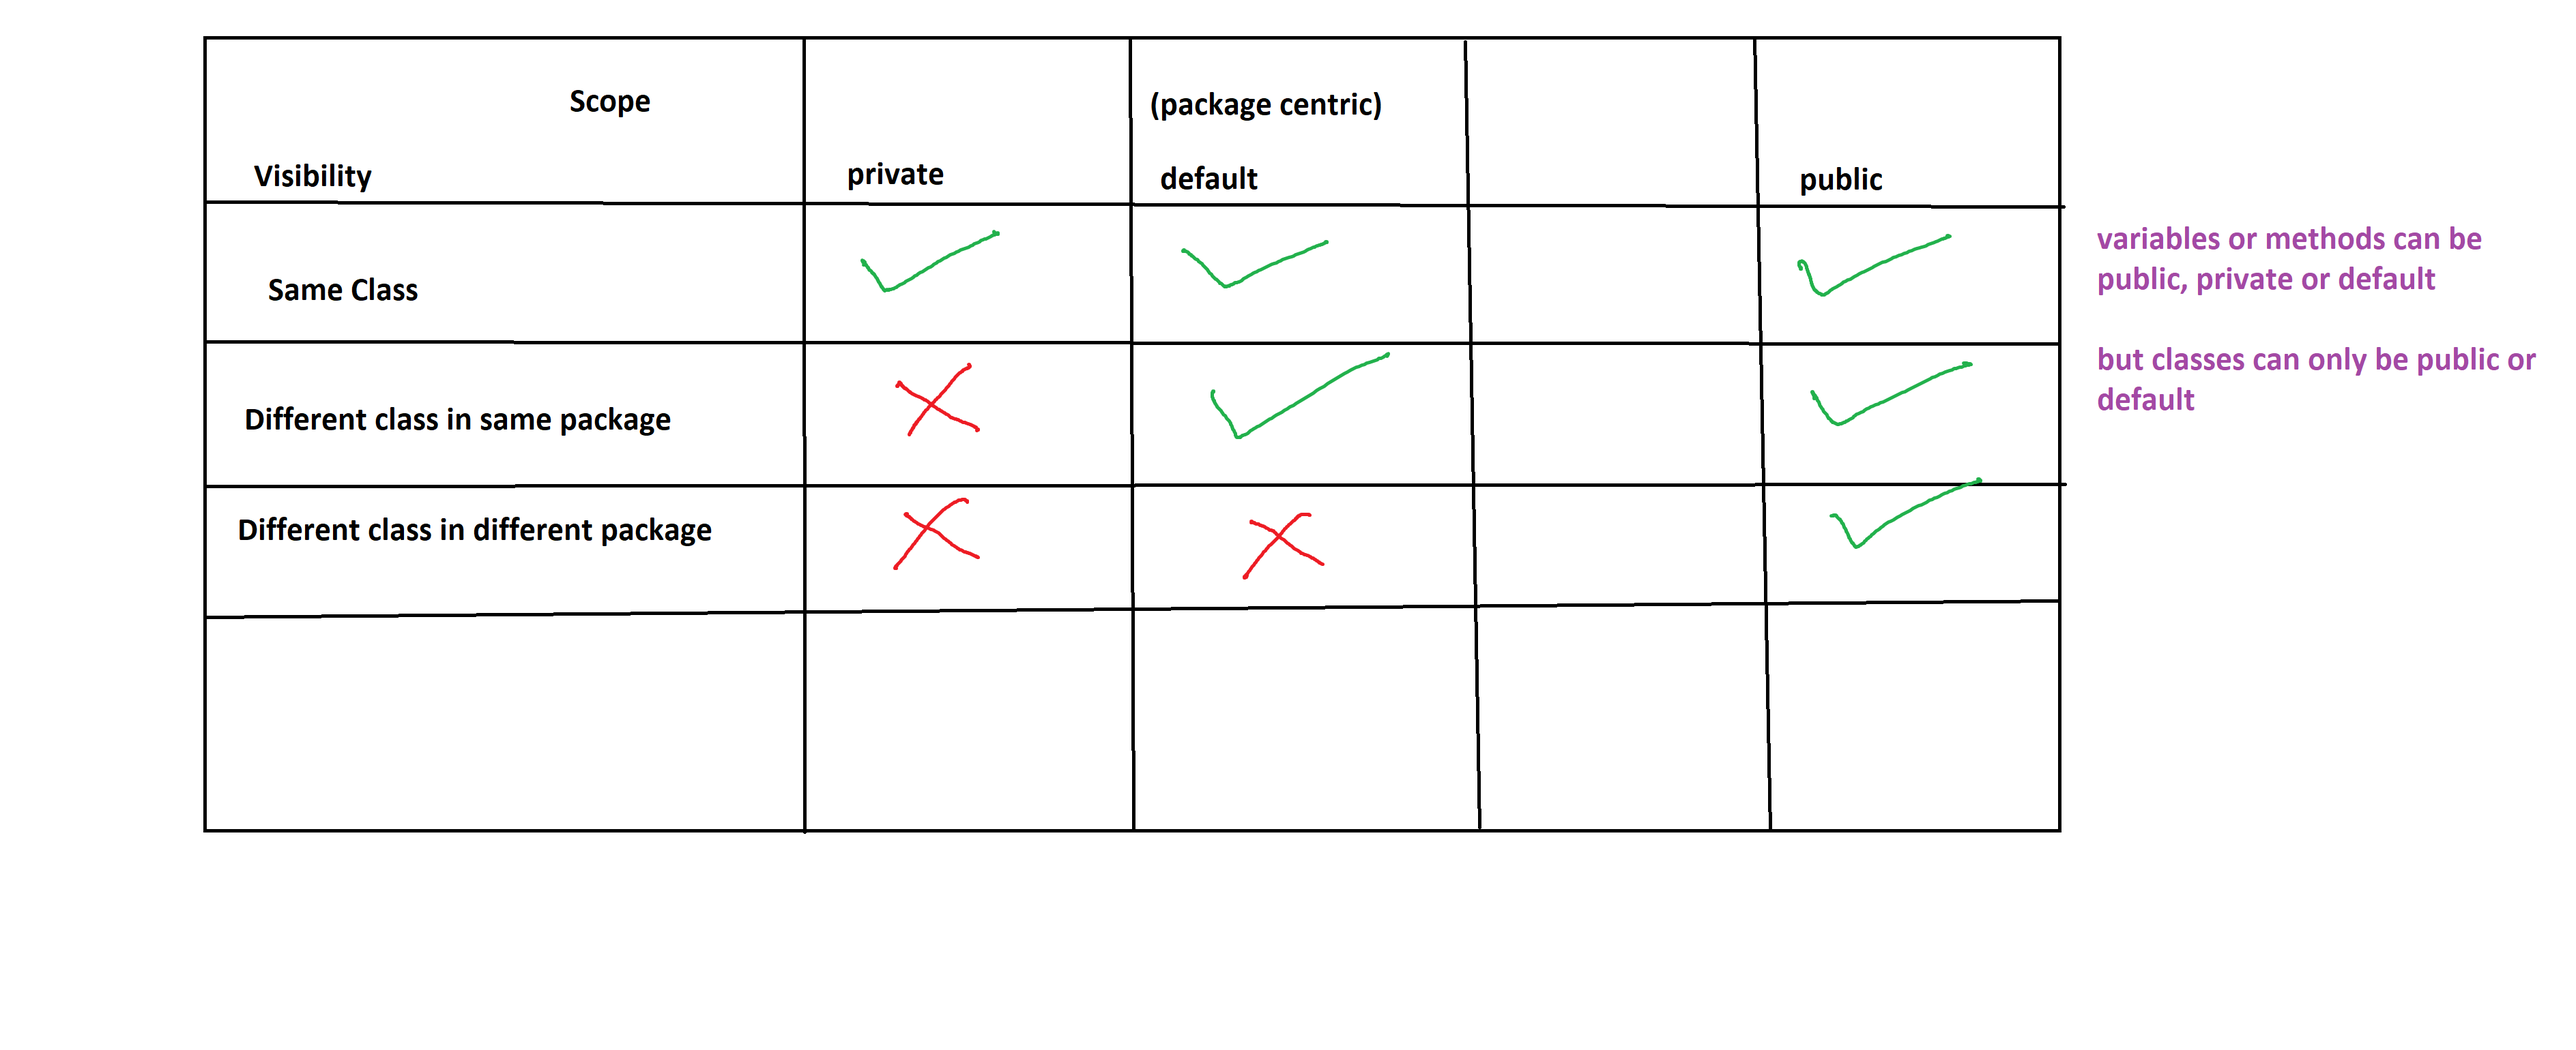
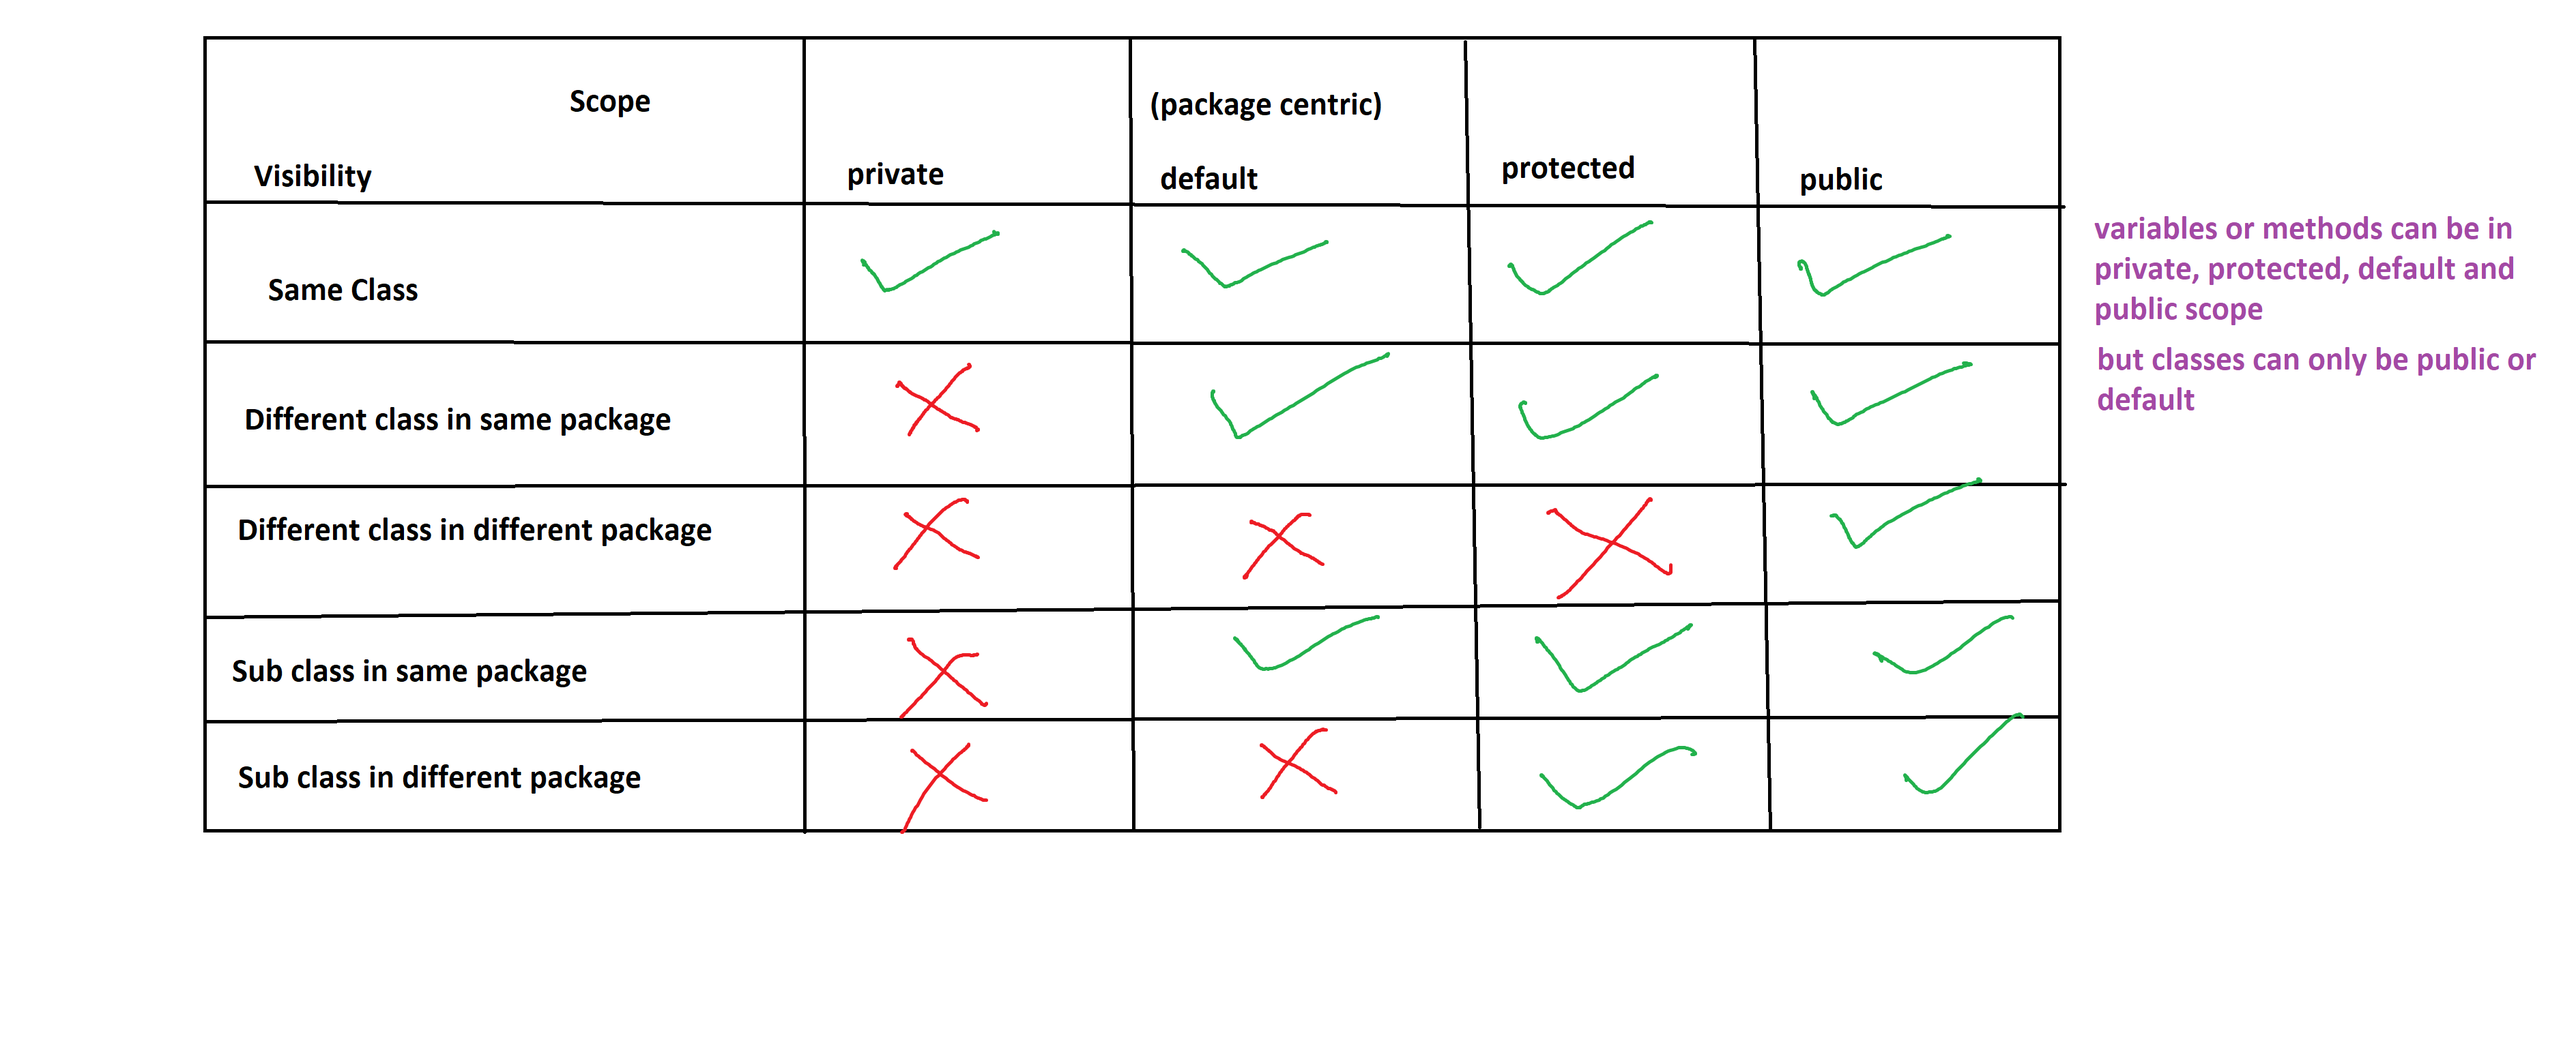
Add files via upload

diff --git a/Day2/MyInheritanceDemoProject/src/com/sujata/demo/Marks.java b/Day2/MyInheritanceDemoProject/src/com/sujata/demo/Marks.java
@@ -1,0 +1,53 @@
+package com.sujata.demo;
+
+//Sub class or derived class
+public class Marks extends Student {
+	private int marks1,marks2,marks3;
+
+	public int getMarks1() {
+		return marks1;
+	}
+
+	public void setMarks1(int marks1) {
+		this.marks1 = marks1;
+	}
+
+	public int getMarks2() {
+		return marks2;
+	}
+
+	public void setMarks2(int marks2) {
+		this.marks2 = marks2;
+	}
+
+	public int getMarks3() {
+		return marks3;
+	}
+
+	public void setMarks3(int marks3) {
+		this.marks3 = marks3;
+	}
+	
+	//Over loading
+	public void input(int rollNo,String name,int marks1,int marks2,int marks3) {
+		input(rollNo, name);
+		this.marks1=marks1;
+		this.marks2=marks2;
+		this.marks3=marks3;
+	}
+	/*
+	 * over riding : 
+	 * 1. function name and signature is same
+	 * 2. over riding can be done in base class and derived class
+	 * 3. while over riding the method in derive class yoy can broader the scope of method
+	 * private < default < protected < public
+	 */
+	public void display() {
+		//call the base class version of over riden method
+		super.display();
+		System.out.println("Marks 1 : "+marks1);
+		System.out.println("Marks 2 : "+marks2);
+		System.out.println("Marks 3 : "+marks3);
+	}
+
+}

diff --git a/Day2/MyInheritanceDemoProject/src/com/sujata/demo/Student.java b/Day2/MyInheritanceDemoProject/src/com/sujata/demo/Student.java
@@ -1,0 +1,33 @@
+package com.sujata.demo;
+//Super class or base class
+public class Student {
+
+	private int rollNo;
+	private String name;
+
+	public int getRollNo() {
+		return rollNo;
+	}
+
+	public void setRollNo(int rollNo) {
+		this.rollNo = rollNo;
+	}
+
+	public String getName() {
+		return name;
+	}
+
+	public void setName(String name) {
+		this.name = name;
+	}
+	
+	public void input(int rollNo,String name) {
+		this.rollNo=rollNo;
+		this.name=name;
+	}
+	public void display() {
+		System.out.println("Roll No : "+rollNo);
+		System.out.println("Name : "+name);
+	}
+	
+}

diff --git a/Day2/MyInheritanceDemoProject/src/com/sujata/training/MyMainClass.java b/Day2/MyInheritanceDemoProject/src/com/sujata/training/MyMainClass.java
@@ -1,0 +1,19 @@
+package com.sujata.training;
+
+import com.sujata.demo.Marks;
+import com.sujata.demo.Student;
+
+public class MyMainClass {
+
+	public static void main(String[] args) {
+		Student student=new Student();
+		student.input(101, "AAAA");
+		student.display();
+		
+		Marks marks=new Marks();
+		marks.input(111, "Some Name", 89, 67, 78);
+		marks.display();
+
+	}
+
+}
